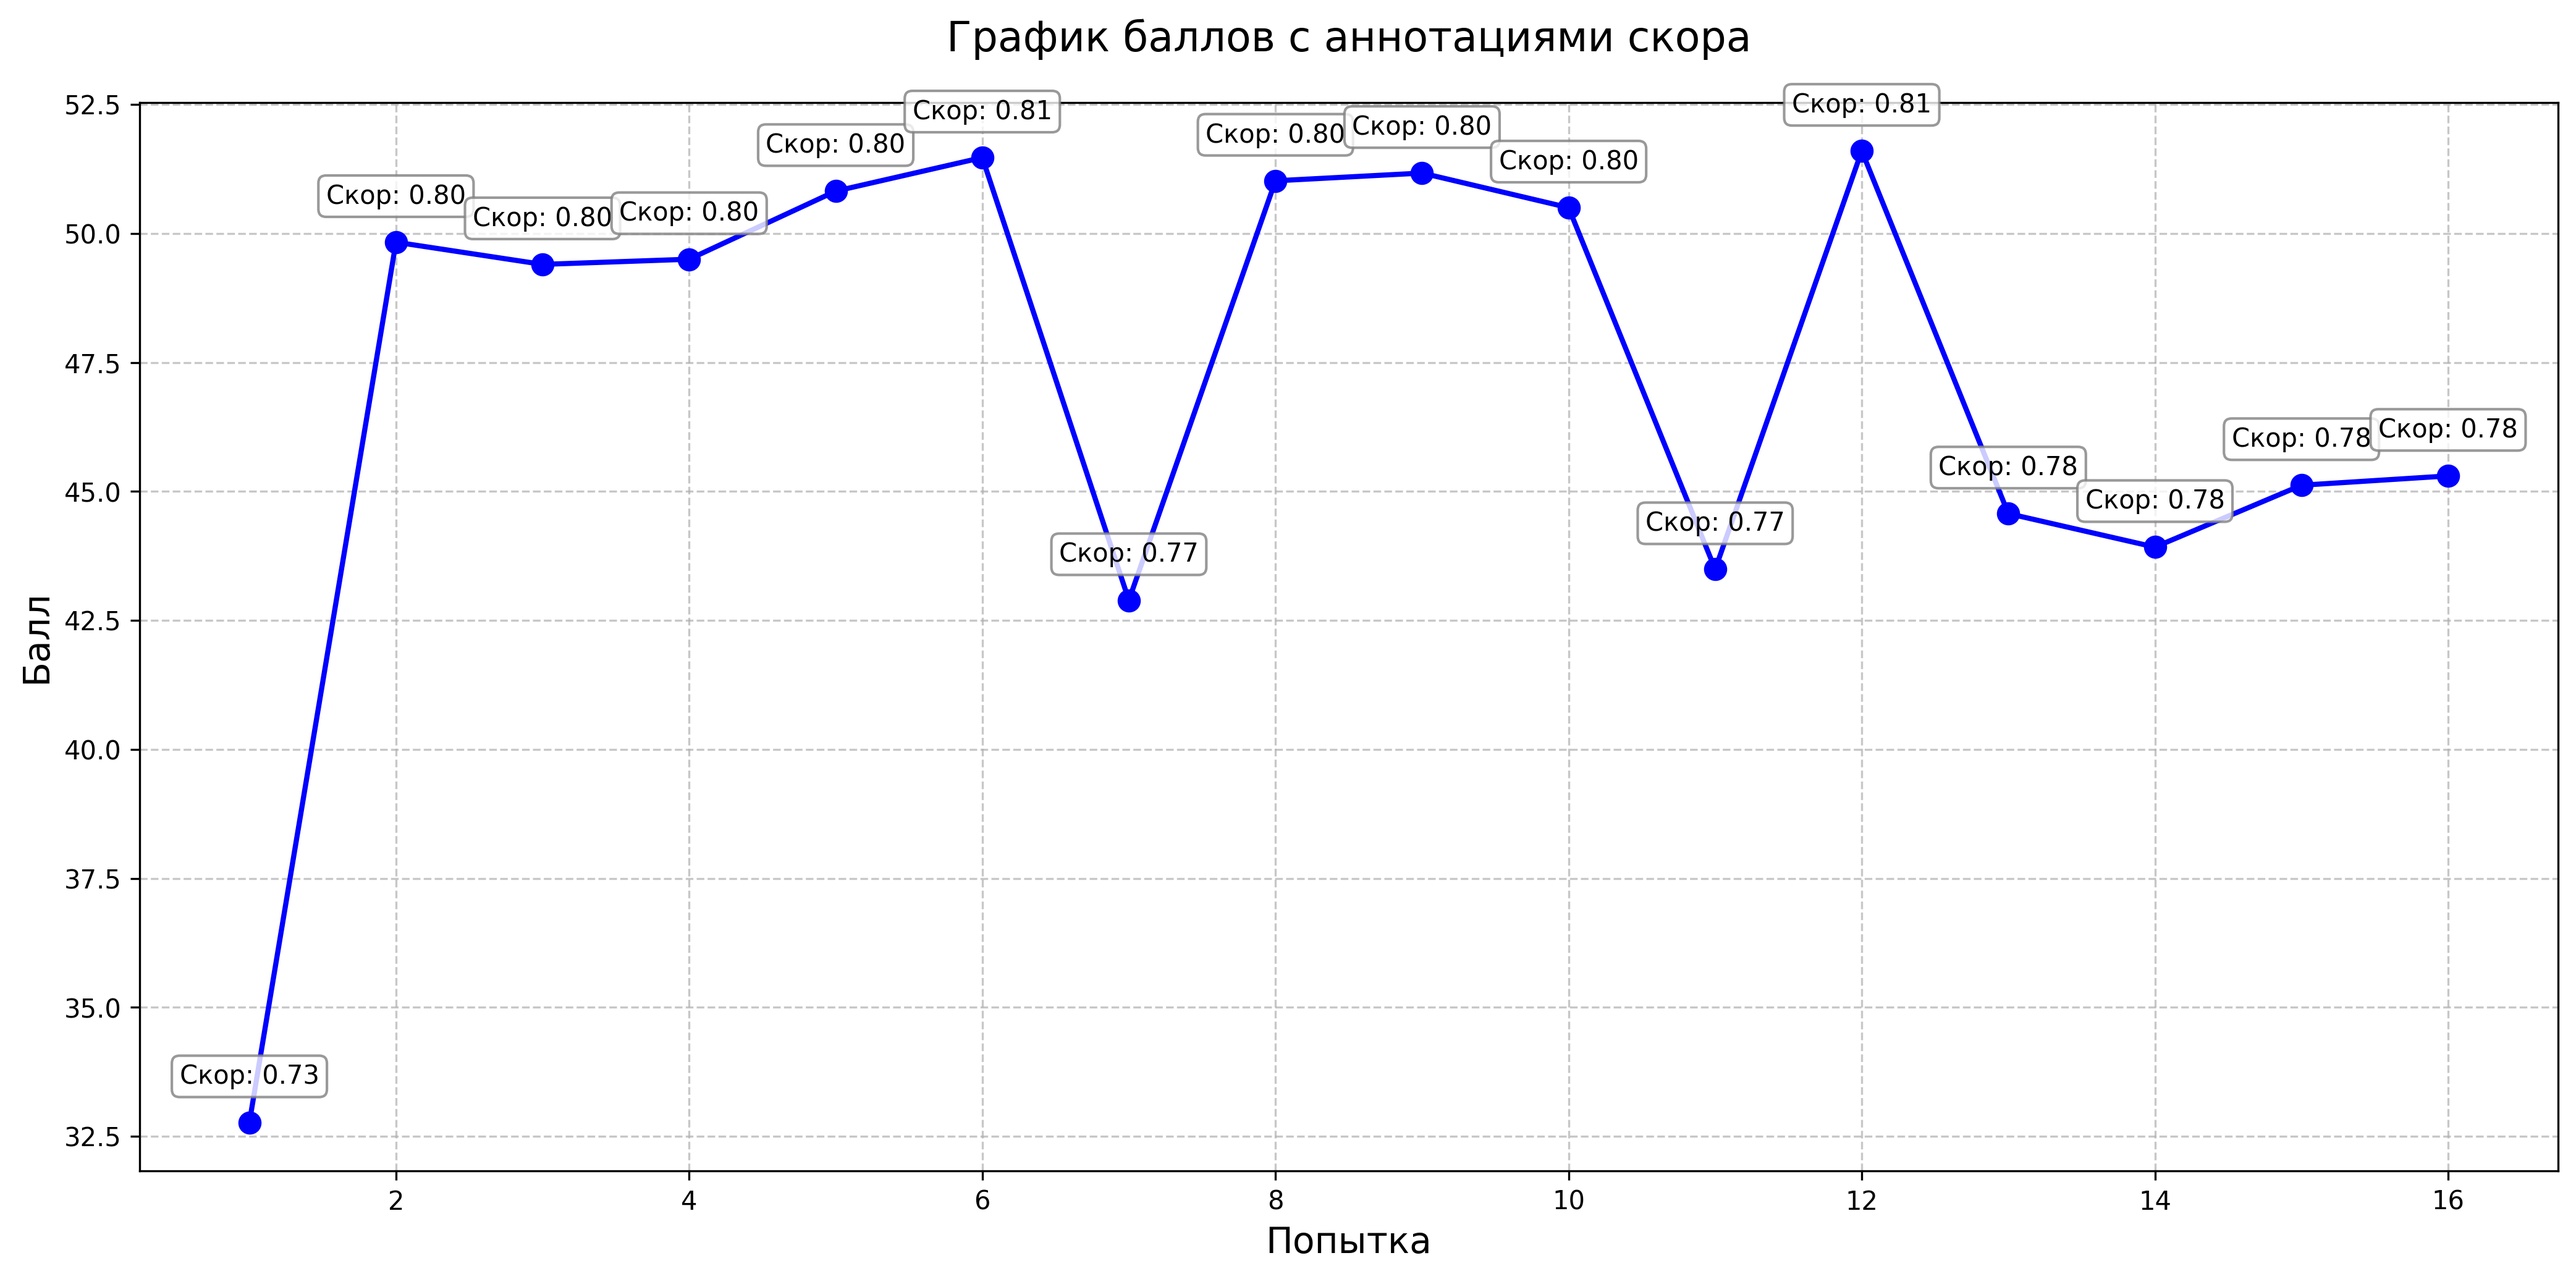
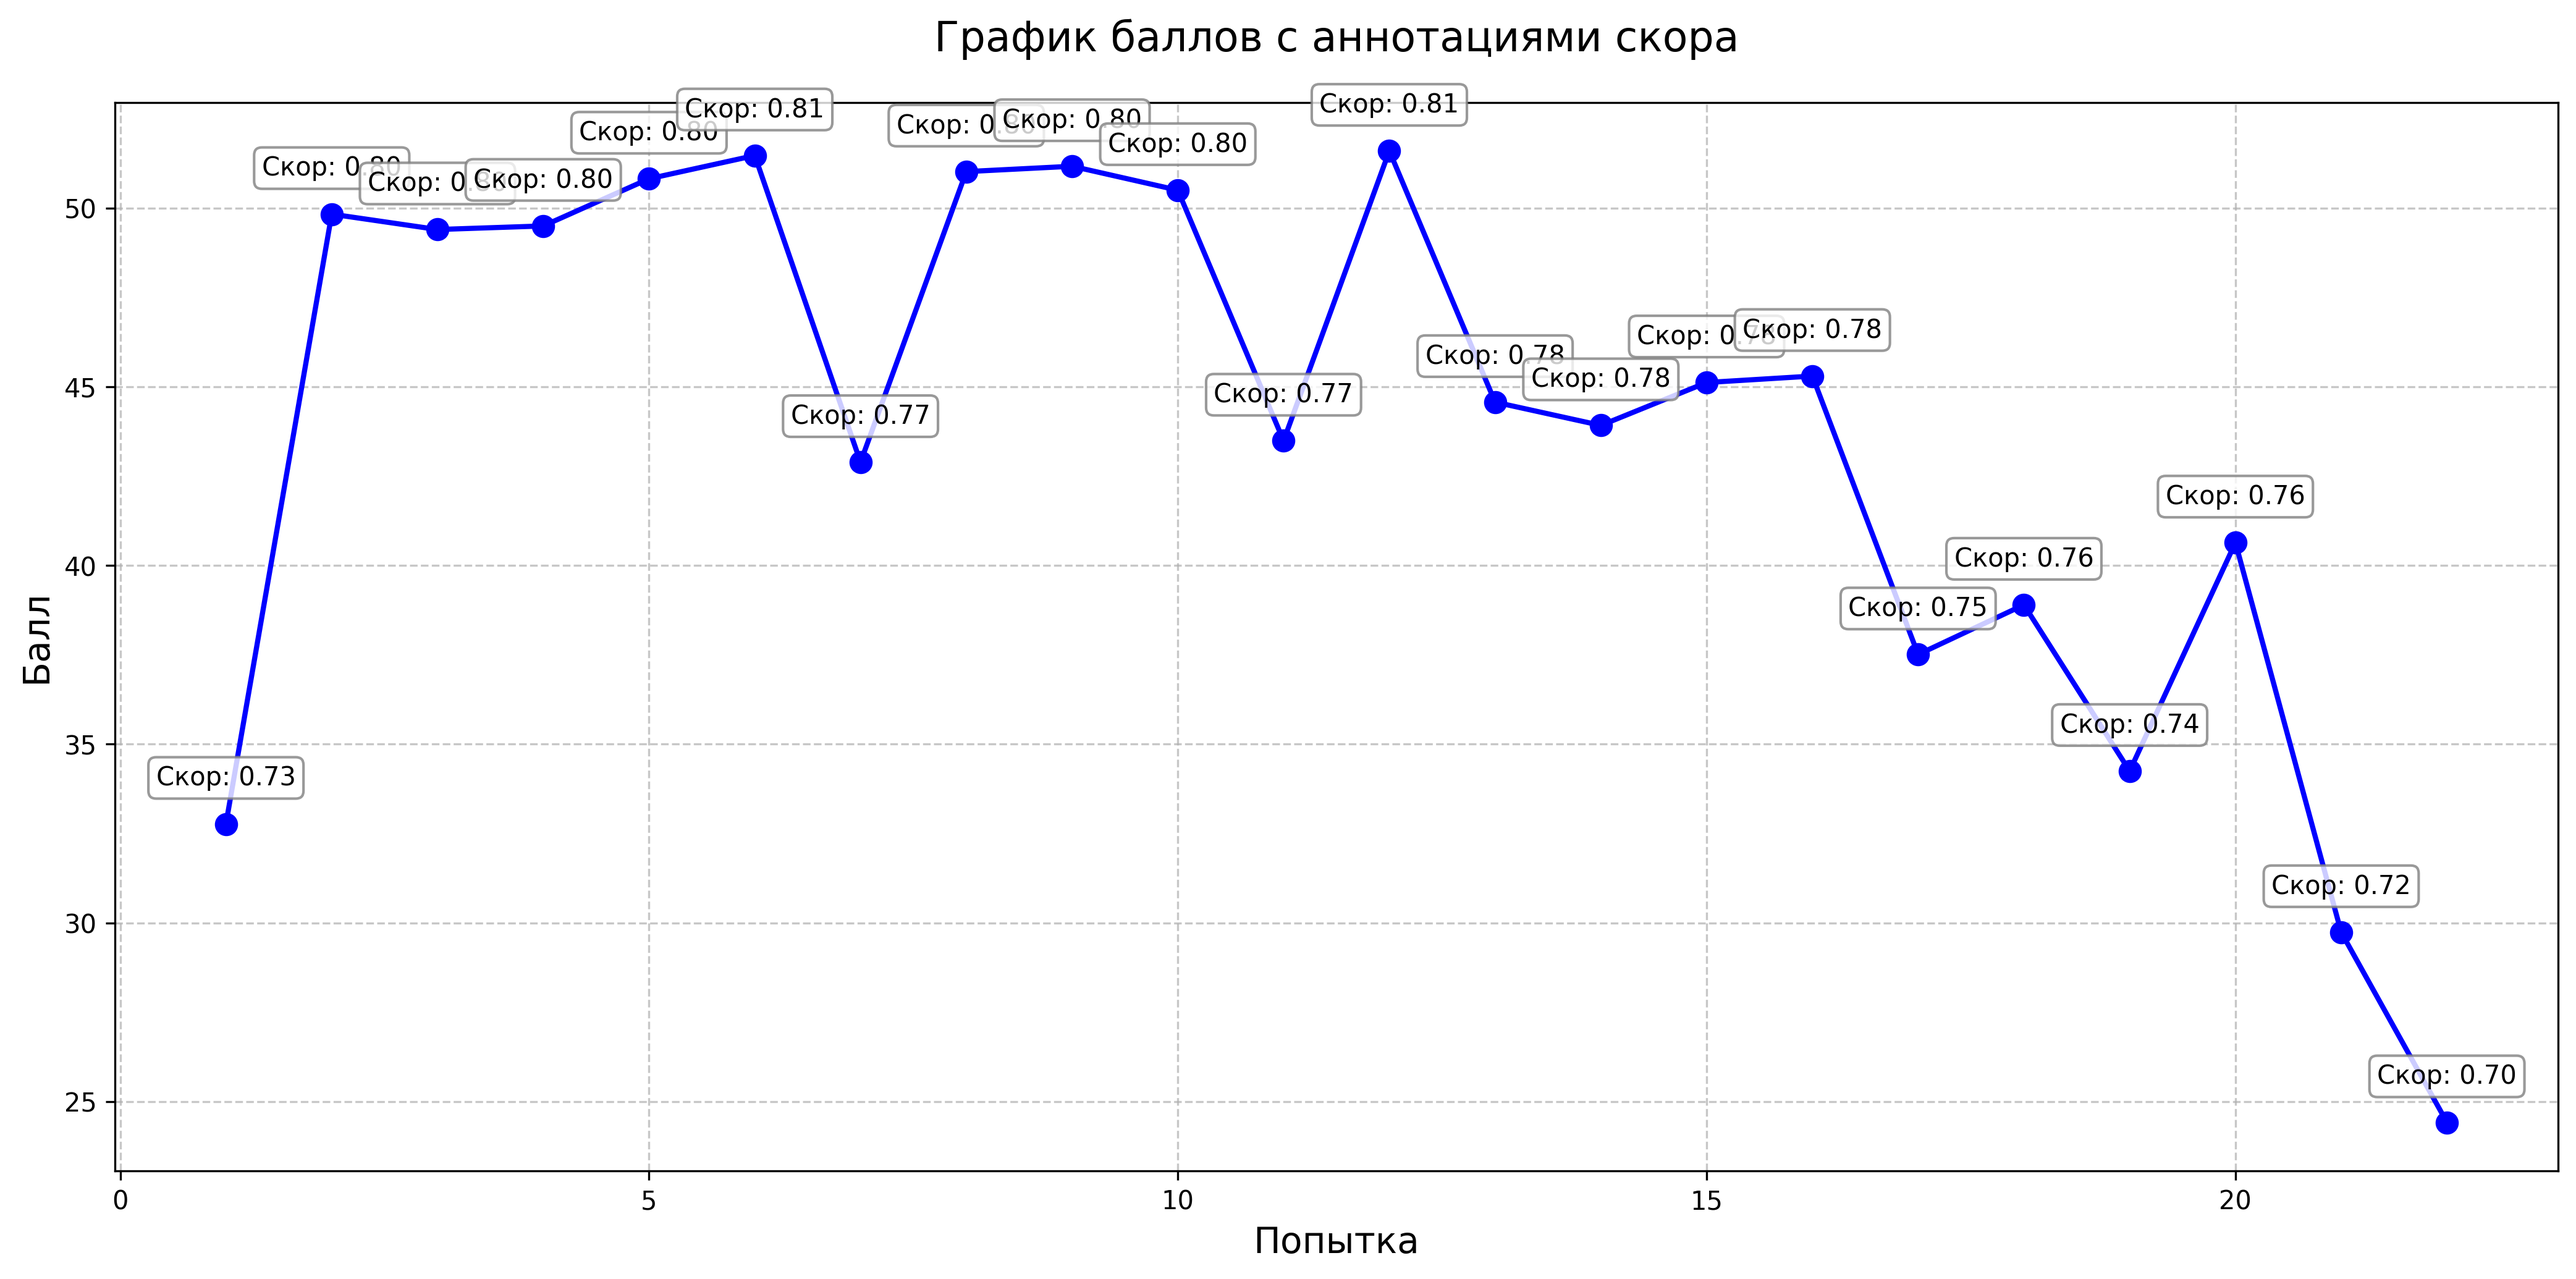
--init fune & feature eng

diff --git a/taskone/featuretrain.py b/taskone/featuretrain.py
@@ -1,0 +1,146 @@
+import pandas as pd
+import numpy as np
+import os
+import gc
+from catboost import CatBoostClassifier, Pool
+from sklearn.model_selection import StratifiedKFold, train_test_split
+from sklearn.metrics import roc_auc_score
+from category_encoders import TargetEncoder
+from eli5.sklearn import PermutationImportance
+
+best_params = {'iterations': 2500, 'depth': 10, 'learning_rate': 0.03, 'l2_leaf_reg': 5}  
+CFG_LIST = {
+    "light": dict(**best_params, n_sample=20_000_000, n_splits=5),
+    "mid":   dict(**best_params, iterations=best_params['iterations']+500, depth=best_params['depth']+1, learning_rate=best_params['learning_rate']*0.8, n_sample=20_000_000, n_splits=5),
+    "pro":   dict(**best_params, iterations=best_params['iterations']+1000, depth=best_params['depth']+2, learning_rate=best_params['learning_rate']*0.6, n_sample=20_000_000, n_splits=5)
+}
+COMMON = dict(
+    eval_metric="AUC",
+    random_seed=42,
+    task_type="GPU",
+    verbose=100,
+    early_stopping_rounds=100,
+    auto_class_weights='Balanced'
+)
+BLEND_W = dict(light=0.2, mid=0.4, pro=0.4)
+
+def feature_engineering(df, y=None, is_train=True, top_pairs=None, features=None):
+    if features is None:
+        features = [c for c in df.columns if c.startswith('ID_')]
+    
+    for col in features:
+        freq = df[col].value_counts(normalize=True)
+        df[col + '_freq'] = df[col].map(freq).fillna(0).astype(float)
+    
+    if is_train and y is not None:
+        te = TargetEncoder(cols=features, smoothing=1.0)
+        df[[col + '_te' for col in features]] = te.fit_transform(df[features], y)
+    
+    if top_pairs is None:
+        top_pairs = []
+    for pair in top_pairs:
+        new_col = f"{pair[0]}_{pair[1]}"
+        df[new_col] = df[pair[0]].astype(str) + '_' + df[pair[1]].astype(str)
+    
+    new_features = [c for c in df.columns if c not in ['id', 'click'] and c not in features] + features + [f"{p[0]}_{p[1]}" for p in top_pairs]
+    return df, new_features
+
+def select_features(model, X, y, features, threshold=0.01):
+    X_train, X_val, y_train, y_val = train_test_split(X, y, test_size=0.2, stratify=y, random_state=42)
+    train_pool = Pool(X_train, y_train, cat_features=[c for c in features if not c.endswith('_freq') and not c.endswith('_te')])
+    val_pool = Pool(X_val, y_val, cat_features=[c for c in features if not c.endswith('_freq') and not c.endswith('_te')])
+    model.fit(train_pool, eval_set=val_pool, use_best_model=True)
+    perm = PermutationImportance(model, random_state=42, n_iter=5).fit(X_val, y_val)
+    importances = perm.feature_importances_
+    selected = [features[i] for i in range(len(features)) if importances[i] > threshold]
+    print(f"Selected {len(selected)} features out of {len(features)}")
+    return selected
+
+test = pd.read_csv("ctr_test.csv")
+orig_features = [c for c in test.columns if c not in ['id']]
+for col in orig_features:
+    test[col] = test[col].astype(str)
+
+blend_pred, blend_oof = np.zeros(len(test)), None
+top_pairs = None
+
+for name, cfg in CFG_LIST.items():
+    print(f"\n=== Training family '{name}' ===")
+    train = pd.read_csv("ctr_train.csv", nrows=cfg['n_sample'])
+    y = train['click'].values
+    for col in orig_features:
+        train[col] = train[col].astype(str)
+    
+    train, features = feature_engineering(train, y, is_train=True, top_pairs=top_pairs, features=orig_features)
+    test, _ = feature_engineering(test, is_train=False, top_pairs=top_pairs, features=orig_features)
+    
+    if name == 'light':
+        sub_train = train.sample(1_000_000, random_state=42)
+        sub_y = y[sub_train.index]
+        sub_model = CatBoostClassifier(**COMMON, iterations=500, depth=8, learning_rate=0.05)
+        selected_features = select_features(sub_model, sub_train[features], sub_y, features)
+        
+        inter_import = sub_model.get_feature_importance(type='Interaction')
+        top_pairs = [(features[i], features[j]) for i, j, score in inter_import[:5]]
+        
+        train, features = feature_engineering(train, y, is_train=True, top_pairs=top_pairs, features=selected_features)
+        test, _ = feature_engineering(test, is_train=False, top_pairs=top_pairs, features=selected_features)
+    
+    features = selected_features + [c for c in train.columns if c.endswith('_freq') or c.endswith('_te') or '_' in c]
+    cat_features = [c for c in features if not c.endswith('_freq') and not c.endswith('_te')]
+    
+    oof, pred = np.zeros(len(train)), np.zeros(len(test))
+    skf = StratifiedKFold(n_splits=cfg['n_splits'], shuffle=True, random_state=42)
+    params = dict(
+        iterations=cfg['iterations'],
+        depth=cfg['depth'],
+        learning_rate=cfg['learning_rate'],
+        l2_leaf_reg=cfg['l2_leaf_reg'],
+        **COMMON
+    )
+    
+    for fold, (tr_idx, val_idx) in enumerate(skf.split(train, y)):
+        X_tr = train.iloc[tr_idx][features]
+        X_val = train.iloc[val_idx][features]
+        y_tr, y_val = y[tr_idx], y[val_idx]
+        
+        train_pool = Pool(X_tr, y_tr, cat_features=cat_features)
+        val_pool = Pool(X_val, y_val, cat_features=cat_features)
+        test_pool = Pool(test[features], cat_features=cat_features)
+        
+        model = CatBoostClassifier(**params)
+        model.fit(train_pool, eval_set=val_pool, use_best_model=True)
+        
+        oof[val_idx] = model.predict_proba(X_val)[:, 1]
+        pred += model.predict_proba(test[features])[:, 1] / cfg['n_splits']
+        
+        os.makedirs("models", exist_ok=True)
+        model.save_model(f"models/{name}_fold{fold}.cbm")
+        del model; gc.collect()
+    
+    cv_auc = roc_auc_score(y, oof)
+    print(f"{name} CV AUC: {cv_auc:.6f}")
+    
+    np.save(f"models/{name}_oof.npy", oof)
+    np.save(f"models/{name}_pred.npy", pred)
+    
+    sub_ind = pd.read_csv("ctr_sample_submission.csv")
+    sub_ind['click'] = pred
+    sub_ind.to_csv(f"submission_{name}.csv", index=False)
+    print(f"submission_{name}.csv saved.")
+    
+    if blend_oof is None:
+        blend_oof = np.zeros_like(oof)
+    w = BLEND_W[name]
+    blend_oof += w * oof
+    blend_pred += w * pred
+    
+    del train, oof, pred; gc.collect()
+
+overall_auc = roc_auc_score(pd.read_csv("ctr_train.csv", nrows=CFG_LIST['mid']['n_sample'])['click'].values, blend_oof)
+print(f"\nBlended CV AUC: {overall_auc:.6f}")
+
+sub = pd.read_csv("ctr_sample_submission.csv")
+sub['click'] = blend_pred
+sub.to_csv("submission_blend.csv", index=False)
+print("submission_blend.csv saved.")

diff --git a/taskone/gptpipeline.py b/taskone/gptpipeline.py
@@ -1,0 +1,105 @@
+import pandas as pd, numpy as np, os, gc
+from catboost import CatBoostClassifier, Pool
+from sklearn.model_selection import StratifiedKFold
+from sklearn.metrics import roc_auc_score
+
+CFG = dict(iterations=800, depth=10, lr=0.035, n_sample=10_000_000, n_splits=5)
+COMMON = dict(
+    eval_metric="AUC",
+    random_seed=42,
+    task_type="GPU",
+    verbose=100,
+    early_stopping_rounds=40,
+    l2_leaf_reg=5,
+    boosting_type="Plain",
+    bootstrap_type="Bernoulli",
+    subsample=0.7,
+    ctr_border_count=128
+)
+
+def add_frequency_encoding(df, cat_cols):
+    for col in cat_cols:
+        freq = df[col].value_counts()
+        df[f"{col}_freq"] = df[col].map(freq)
+    return df
+
+
+def add_target_encoding(train, test, cat_cols, target, n_splits=5):
+    skf = StratifiedKFold(n_splits=n_splits, shuffle=True, random_state=42)
+    for col in cat_cols:
+        train[f"{col}_te"] = 0.0
+        test[f"{col}_te"] = 0.0
+        for tr_idx, val_idx in skf.split(train, train[target]):
+            tr, val = train.iloc[tr_idx], train.iloc[val_idx]
+            means = tr.groupby(col)[target].mean()
+            train.loc[val_idx, f"{col}_te"] = val[col].map(means)
+        global_means = train.groupby(col)[target].mean()
+        test[f"{col}_te"] = test[col].map(global_means)
+    return train, test
+
+def add_pairwise_interactions(train, test, cat_cols, max_pairs=5):
+    from itertools import combinations
+    pairs = list(combinations(cat_cols, 2))[:max_pairs]
+    for col1, col2 in pairs:
+        new_col = f"{col1}_{col2}_int"
+        train[new_col] = train[col1] + "_" + train[col2]
+        test[new_col]  = test[col1]  + "_" + test[col2]
+    return train, test
+
+print("\n=== Читаем данные ===")
+train = pd.read_csv("ctr_train.csv", nrows=CFG['n_sample'])
+test  = pd.read_csv("ctr_test.csv")
+sub   = pd.read_csv("ctr_sample_submission.csv")
+
+features = [c for c in test.columns if c not in ['id']]
+
+for col in features:
+    train[col] = train[col].astype(str)
+    test[col]  = test[col].astype(str)
+
+print("Добавляем frequency encoding...")
+train = add_frequency_encoding(train, features)
+test  = add_frequency_encoding(test, features)
+
+print("Добавляем target encoding (CV)...")
+train, test = add_target_encoding(train, test, features, "click", n_splits=CFG['n_splits'])
+
+print("Генерируем парные признаки...")
+train, test = add_pairwise_interactions(train, test, features, max_pairs=10)
+
+new_features = [c for c in train.columns if c not in ['id','click']]
+
+X, y = train[new_features], train['click'].values
+X_test = test[new_features]
+
+print("\n=== Обучение CatBoost ===")
+oof, pred = np.zeros(len(train)), np.zeros(len(test))
+skf = StratifiedKFold(n_splits=CFG['n_splits'], shuffle=True, random_state=42)
+
+for fold, (tr_idx, val_idx) in enumerate(skf.split(X, y)):
+    print(f"\nFOLD {fold}")
+    X_tr, X_val = X.iloc[tr_idx], X.iloc[val_idx]
+    y_tr, y_val = y[tr_idx], y[val_idx]
+
+    model = CatBoostClassifier(
+        iterations=CFG['iterations'],
+        depth=CFG['depth'],
+        learning_rate=CFG['lr'],
+        **COMMON
+    )
+
+    model.fit(Pool(X_tr, y_tr), eval_set=Pool(X_val, y_val), use_best_model=True)
+
+    oof[val_idx] = model.predict_proba(X_val)[:, 1]
+    pred += model.predict_proba(X_test)[:, 1] / CFG['n_splits']
+
+    os.makedirs("models", exist_ok=True)
+    model.save_model(f"models/pro_adv_fold{fold}.cbm")
+    del model; gc.collect()
+
+cv_auc = roc_auc_score(y, oof)
+print(f"\nCV AUC (freq + target encoding + pairwise): {cv_auc:.6f}")
+
+sub['click'] = pred
+sub.to_csv("submission_pro_adv.csv", index=False)
+print("submission_pro_adv.csv сохранён.")

diff --git a/taskone/tune.py b/taskone/tune.py
@@ -1,0 +1,84 @@
+import pandas as pd
+import numpy as np
+from catboost import CatBoostClassifier, Pool
+from sklearn.model_selection import StratifiedKFold, train_test_split
+from sklearn.metrics import roc_auc_score
+from category_encoders import TargetEncoder
+import optuna
+
+COMMON = dict(
+    eval_metric="AUC",
+    random_seed=42,
+    task_type="GPU",
+    verbose=100,
+    early_stopping_rounds=100,
+    auto_class_weights='Balanced'
+)
+
+def feature_engineering(df, y=None, is_train=True, top_pairs=None, features=None):
+    if features is None:
+        features = [c for c in df.columns if c.startswith('ID_')]
+    
+    # Frequency encoding
+    for col in features:
+        freq = df[col].value_counts(normalize=True)
+        df[col + '_freq'] = df[col].map(freq).fillna(0).astype(float)
+    
+    # Target encoding
+    if is_train and y is not None:
+        te = TargetEncoder(cols=features, smoothing=1.0)
+        df[[col + '_te' for col in features]] = te.fit_transform(df[features], y)
+    
+    # Interactions
+    if top_pairs is None:
+        top_pairs = []
+    for pair in top_pairs:
+        new_col = f"{pair[0]}_{pair[1]}"
+        df[new_col] = df[pair[0]].astype(str) + '_' + df[pair[1]].astype(str)
+    
+    new_features = [c for c in df.columns if c not in ['id', 'click'] and c not in features] + features + [f"{p[0]}_{p[1]}" for p in top_pairs]
+    return df, new_features
+
+def objective(trial, X, y, features, cat_features):
+    params = {
+        'iterations': trial.suggest_int('iterations', 500, 3000),
+        'depth': trial.suggest_int('depth', 8, 12),
+        'learning_rate': trial.suggest_float('learning_rate', 0.01, 0.1),
+        'l2_leaf_reg': trial.suggest_float('l2_leaf_reg', 1, 10),
+        **COMMON
+    }
+    skf = StratifiedKFold(n_splits=3, shuffle=True, random_state=42)
+    aucs = []
+    for tr_idx, val_idx in skf.split(X, y):
+        X_tr, X_val = X.iloc[tr_idx][features], X.iloc[val_idx][features]
+        y_tr, y_val = y[tr_idx], y[val_idx]
+        
+        train_pool = Pool(X_tr, y_tr, cat_features=cat_features)
+        val_pool = Pool(X_val, y_val, cat_features=cat_features)
+        
+        model = CatBoostClassifier(**params)
+        model.fit(train_pool, eval_set=val_pool, use_best_model=True)
+        
+        preds = model.predict_proba(X_val)[:, 1]
+        aucs.append(roc_auc_score(y_val, preds))
+    return np.mean(aucs)
+
+if __name__ == "__main__":
+    train = pd.read_csv("ctr_train.csv", nrows=5_000_000)
+    y = train['click'].values
+    orig_features = [c for c in train.columns if c.startswith('ID_')]
+    for col in orig_features:
+        train[col] = train[col].astype(str)
+    
+    top_pairs = []  # Можно добавлять top пары из предыдущих подборов фичей
+    train, features = feature_engineering(train, y, is_train=True, top_pairs=top_pairs, features=orig_features)
+    cat_features = [c for c in features if not c.endswith('_freq') and not c.endswith('_te')]
+    
+    study = optuna.create_study(direction='maximize')
+    study.optimize(lambda trial: objective(trial, train, y, features, cat_features), n_trials=20)
+    
+    print("Best params:", study.best_params)
+    print("Best AUC:", study.best_value)
+    
+    with open("best_params.txt", "w") as f:
+        f.write(str(study.best_params))
